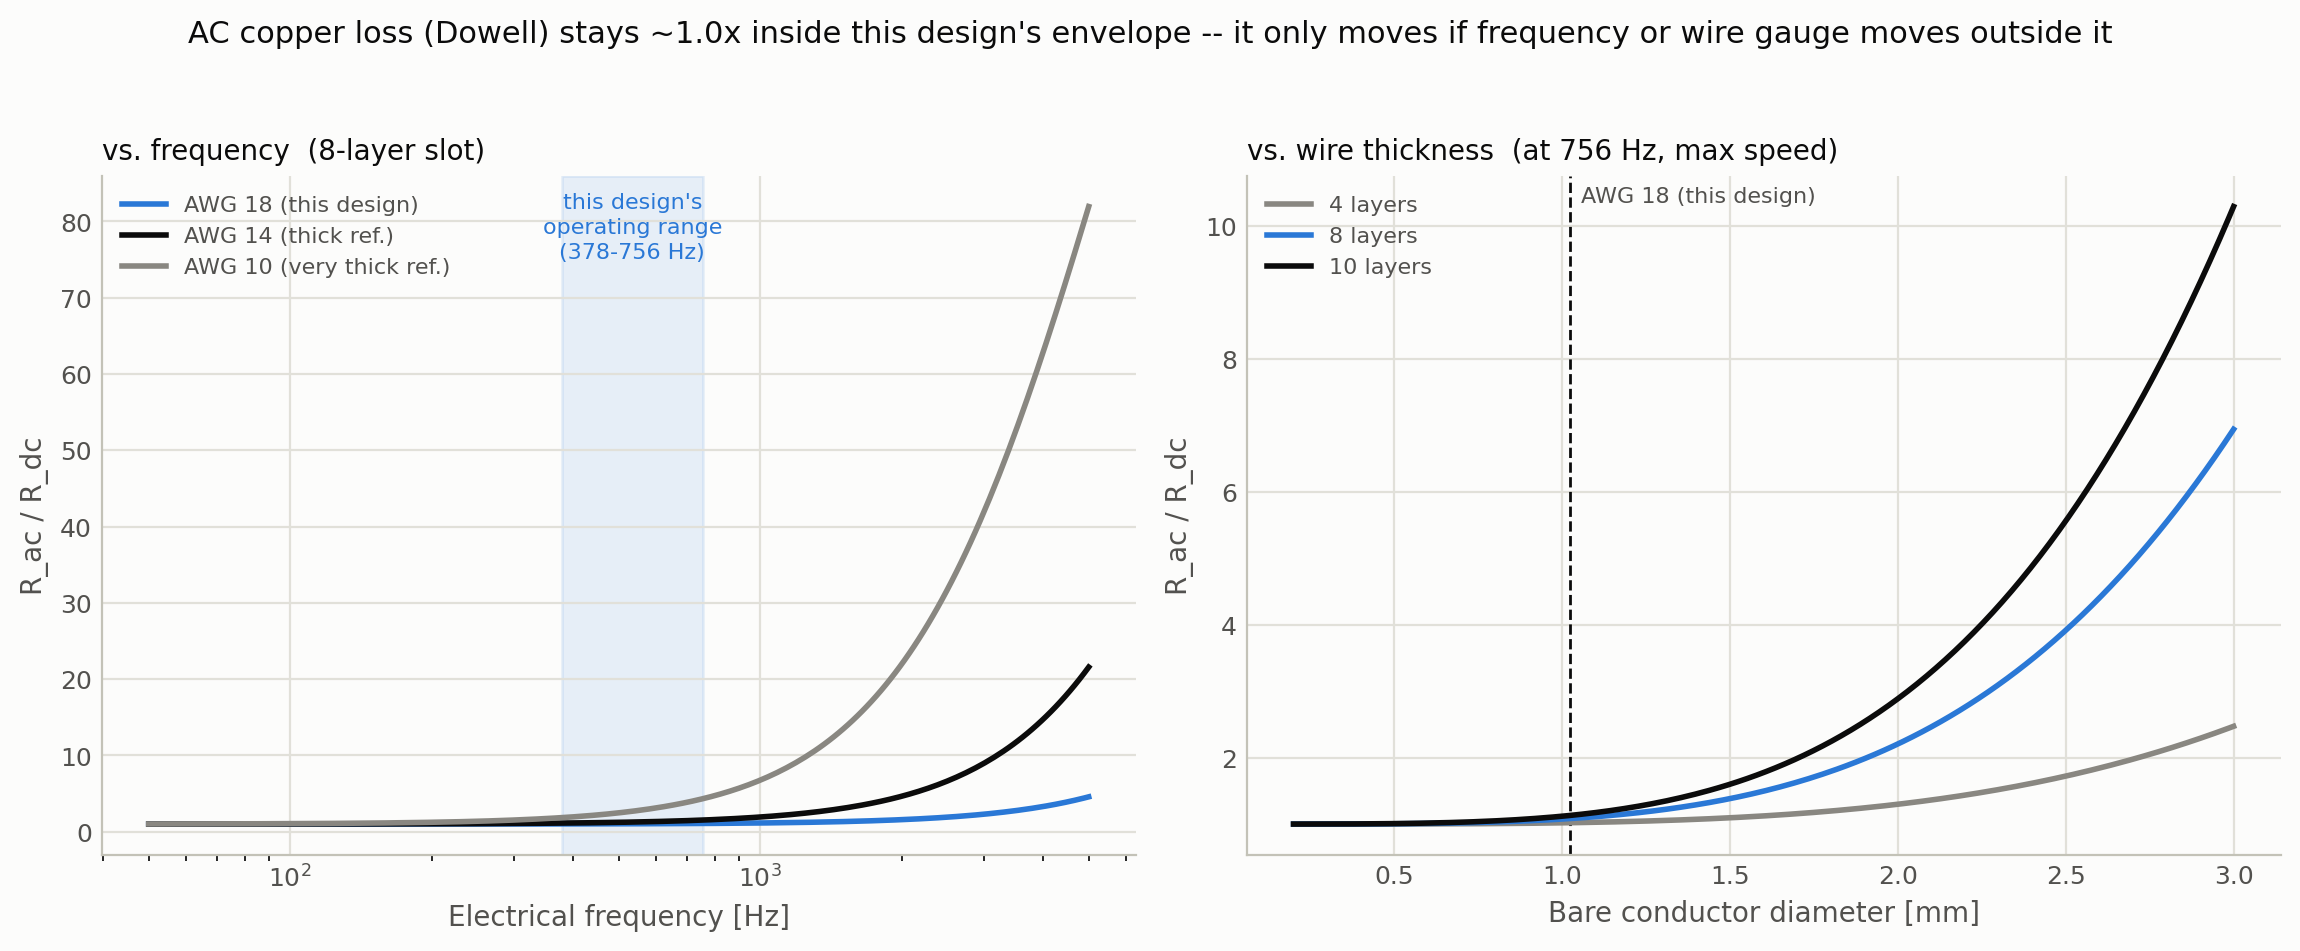
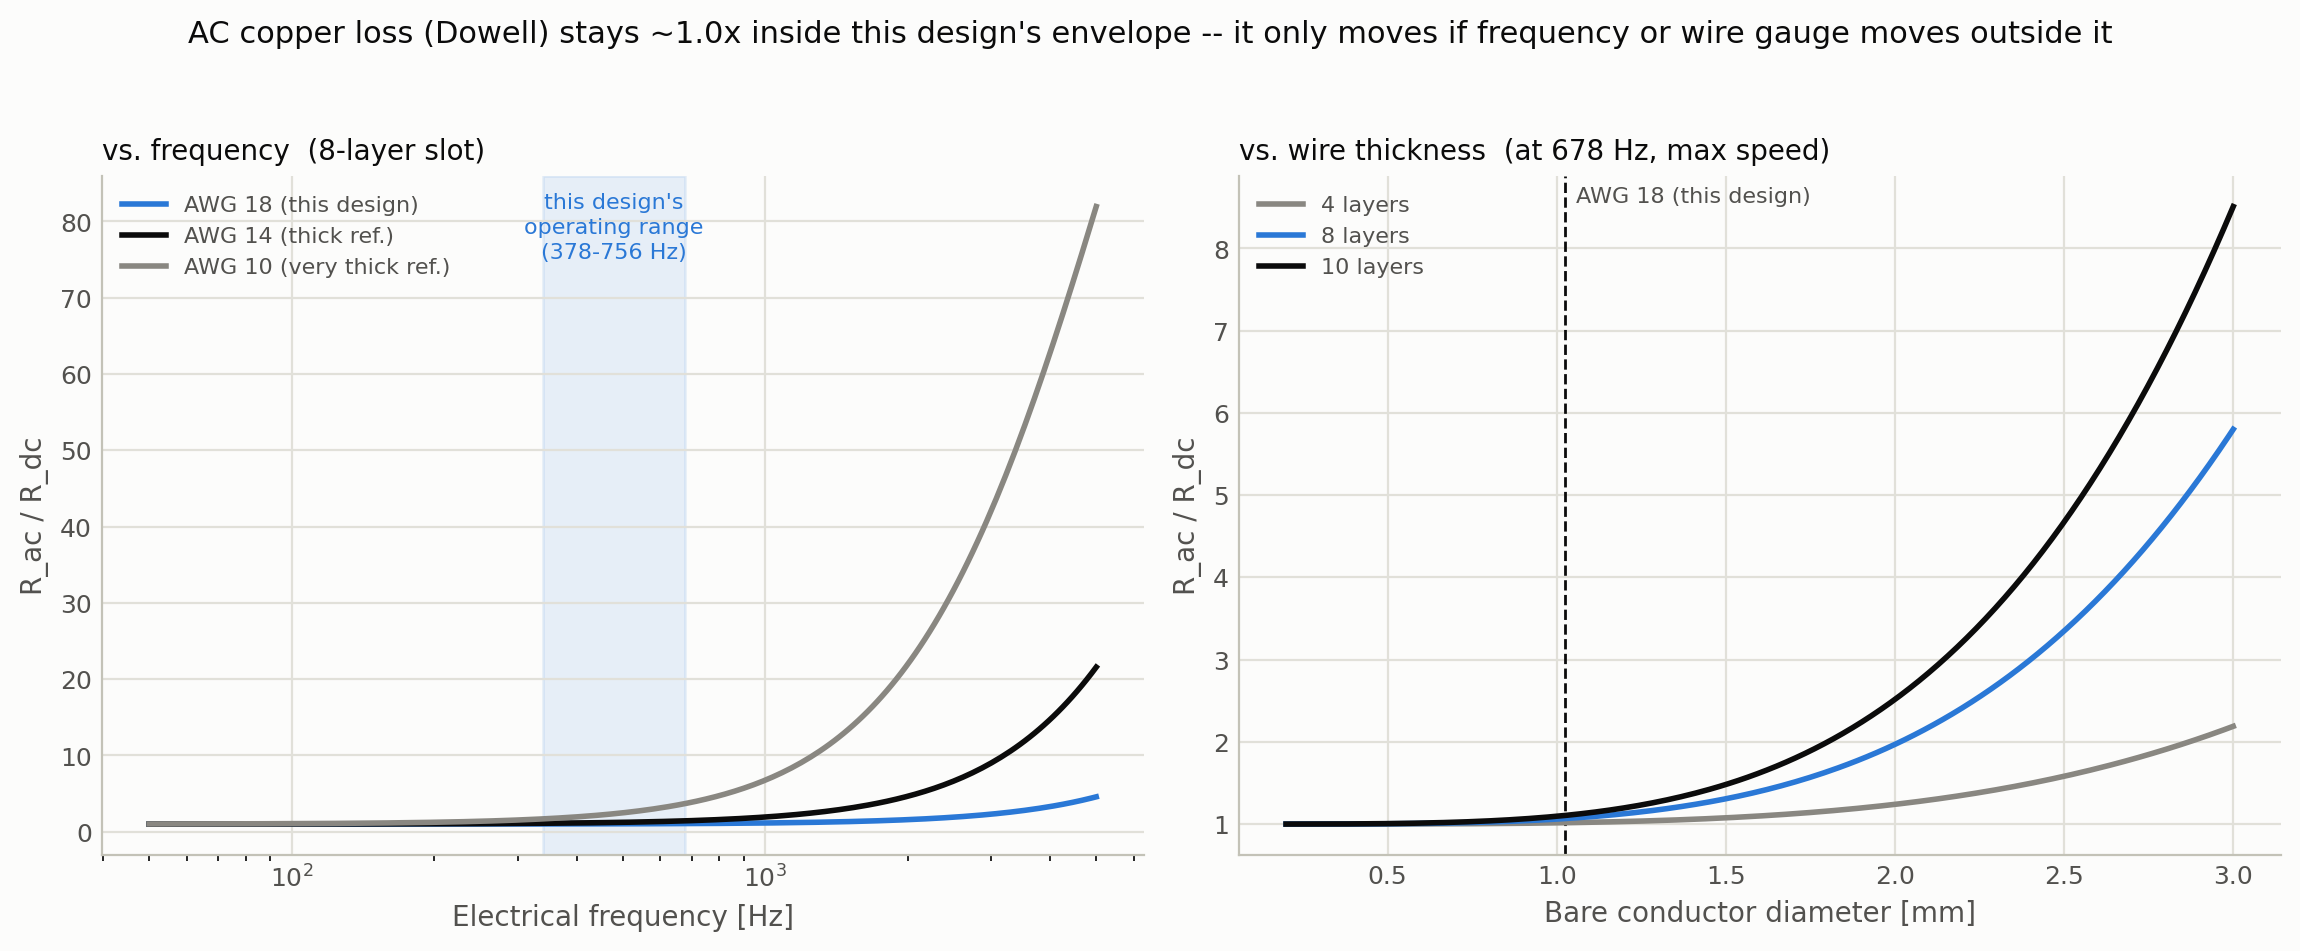
data tables

diff --git a/py_scripts/report_tables.py b/py_scripts/report_tables.py
@@ -1,0 +1,125 @@
+"""
+report_tables.py -- The two blog-post summary tables (torque sweep, speed
+sweep), both built from ONE function over ONE MotorParams instance.
+
+Postmortem (see md files/(C) Report Draft.md Section 3.1 note): the old
+Table 1 was hand-copied from a run made before config.py's MOTOR was
+updated (Kt 0.031->0.034, Kv 270->242, core_mass 0.08->0.125 kg, R_th
+1.5->0.29 K/W). Table 2 was generated afterward, against the updated
+config.py. Nobody re-ran Table 1, so the two tables silently described two
+different motors. This script makes that impossible: every row in both
+tables comes from operating_point(), which always reads MOTOR from
+config.py -- there is no second parameter set to drift out of sync.
+
+Run:  python report_tables.py
+"""
+from config import MOTOR, T_AMB_C
+from losses import (copper_loss, iron_loss, mech_loss, output_power,
+                    resistance_ratio, representative_rpm, elec_freq)
+from thermal import steady_winding_temp
+
+# The shared operating point the two sweeps must agree on: Table 1 holds
+# this speed fixed while varying torque; Table 2 holds this torque fixed
+# while varying speed. representative_rpm() (half no-load speed) is the
+# same speed the loss_breakdown figure and report Section 3 already use.
+SHARED_RPM = representative_rpm(MOTOR)
+SHARED_TORQUE_NM = 0.3
+
+
+"""Every reported quantity at one (T_nm, rpm) point, from a single
+self-consistent thermal solve. Both tables call only this function -- no
+operating point is ever computed a second, independent way."""
+def operating_point(T_nm, rpm, m=MOTOR, T_amb_c=T_AMB_C):
+    T_w_c, _ = steady_winding_temp(T_nm, rpm, m, T_amb_c)
+    P_cu = copper_loss(T_nm, m, T_w_c)
+    P_fe = iron_loss(rpm, m)
+    P_mech = mech_loss(rpm, m)
+    P_out = output_power(T_nm, rpm)
+    P_loss = P_cu + P_fe + P_mech
+    eff_pct = 100.0 * P_out / (P_out + P_loss) if (P_out + P_loss) > 0 else 0.0
+    return {
+        'T_nm': T_nm, 'rpm': rpm,
+        'P_cu': P_cu, 'P_fe': P_fe, 'P_mech': P_mech,
+        'efficiency_pct': eff_pct,
+        'T_winding_c': T_w_c,
+        'R_multiplier': resistance_ratio(T_w_c, m),
+    }
+
+
+def build_table1_torque_sweep(torques_nm, rpm=SHARED_RPM):
+    return [operating_point(T, rpm) for T in torques_nm]
+
+
+def build_table2_speed_sweep(rpms, T_nm=SHARED_TORQUE_NM):
+    return [operating_point(T_nm, rpm) for rpm in rpms]
+
+
+"""Table 1 must agree with Table 2 wherever their operating points overlap
+(Table 1's fixed speed, at Table 2's fixed torque). Since both come from
+the same operating_point() call this is not a tolerance check on two
+independent models -- it's a regression guard against ever going back to
+two hand-maintained tables."""
+def self_check(table1_rows, table2_rows, tol_pct=1.0):
+    row1 = next(r for r in table1_rows if abs(r['T_nm'] - SHARED_TORQUE_NM) < 1e-9)
+    row2 = next(r for r in table2_rows if abs(r['rpm'] - SHARED_RPM) < 1e-6)
+    diff_pct = 100.0 * abs(row1['P_cu'] - row2['P_cu']) / row2['P_cu']
+    if diff_pct >= tol_pct:
+        raise AssertionError(
+            f"Table 1 and Table 2 diverge at the shared operating point "
+            f"({SHARED_TORQUE_NM} N*m, {SHARED_RPM:.0f} rpm): "
+            f"P_cu = {row1['P_cu']:.3f} W (Table 1) vs {row2['P_cu']:.3f} W "
+            f"(Table 2), {diff_pct:.2f}% apart (tolerance {tol_pct}%).")
+    print(f"self-check OK: at ({SHARED_TORQUE_NM} N*m, {SHARED_RPM:.0f} rpm) "
+          f"the two tables agree to {diff_pct:.4f}% "
+          f"(P_cu = {row1['P_cu']:.3f} W both).")
+
+
+def render_table1(rows, m=MOTOR):
+    f_hz = elec_freq(SHARED_RPM, m.pole_pairs)
+    lines = [
+        f"**Table 1 — copper loss vs. torque, at {SHARED_RPM:.0f} rpm "
+        f"({f_hz:.0f} Hz electrical, half no-load speed)**",
+        "",
+        "| Torque [N·m] | Speed [rpm] | P_cu [W] | P_fe [W] | P_mech [W] "
+        "| Efficiency | T_winding [°C] | R(T)/R_25°C |",
+        "|---:|---:|---:|---:|---:|---:|---:|---:|",
+    ]
+    for r in rows:
+        lines.append(
+            f"| {r['T_nm']:.1f} | {r['rpm']:.0f} | {r['P_cu']:.2f} "
+            f"| {r['P_fe']:.2f} | {r['P_mech']:.2f} | {r['efficiency_pct']:.1f}% "
+            f"| {r['T_winding_c']:.0f} | {r['R_multiplier']:.3f}x |")
+    return "\n".join(lines)
+
+
+def render_table2(rows, m=MOTOR):
+    lines = [
+        f"**Table 2 — copper loss vs. speed, at {SHARED_TORQUE_NM} N·m**",
+        "",
+        "| Speed [rpm] | f_elec [Hz] | Torque [N·m] | P_cu [W] | P_fe [W] "
+        "| Efficiency | T_winding [°C] | R(T)/R_25°C |",
+        "|---:|---:|---:|---:|---:|---:|---:|---:|",
+    ]
+    for r in rows:
+        f_hz = elec_freq(r['rpm'], m.pole_pairs)
+        lines.append(
+            f"| {r['rpm']:.0f} | {f_hz:.0f} | {r['T_nm']:.1f} "
+            f"| {r['P_cu']:.2f} | {r['P_fe']:.2f} | {r['efficiency_pct']:.1f}% "
+            f"| {r['T_winding_c']:.0f} | {r['R_multiplier']:.3f}x |")
+    return "\n".join(lines)
+
+
+if __name__ == '__main__':
+    torques_nm = [0.1, 0.2, 0.3, 0.4, 0.6, 0.8]
+    max_rpm = MOTOR.Kv_rpm_per_v * MOTOR.bus_voltage_v
+    speeds_rpm = sorted({200, 1000, 2000, SHARED_RPM, 4000, max_rpm})
+
+    table1_rows = build_table1_torque_sweep(torques_nm)
+    table2_rows = build_table2_speed_sweep(speeds_rpm)
+
+    self_check(table1_rows, table2_rows)
+
+    print()
+    print(render_table1(table1_rows))
+    print()
+    print(render_table2(table2_rows))

diff --git a/py_scripts/ac_copper.py b/py_scripts/ac_copper.py
@@ -14,7 +14,7 @@ import matplotlib.pyplot as plt
 
 from config import MOTOR, ALPHA_CU_PER_C
 from plot_losses import SURFACE, INK, INK_2, MUTED, C_COPPER, style
-from losses import elec_freq, copper_loss
+from losses import elec_freq, copper_loss, representative_rpm
 
 RHO_20_OHM_M = 1.724e-8    # copper resistivity @ 20 C
 MU0 = 4e-7 * np.pi
@@ -106,20 +106,23 @@ def print_skin_depth_table(m):
     print("=" * 66)
     print("SKIN DEPTH vs SPEED  (winding at 100 C)")
     print("=" * 66)
+    max_rpm = m.Kv_rpm_per_v * m.bus_voltage_v
     print(f"{'rpm':>8} {'f_elec[Hz]':>12} {'delta[mm]':>12}")
-    for rpm in (1000, 3240, 5000, 6480):
+    for rpm in (1000, representative_rpm(m), 5000, max_rpm):
         f_hz = elec_freq(rpm, m.pole_pairs)
         print(f"{rpm:8.0f} {f_hz:12.1f} {skin_depth(f_hz, 100.0)*1e3:12.2f}")
 
 
 def print_dowell_table(m):
+    max_rpm = m.Kv_rpm_per_v * m.bus_voltage_v
+    f_max_hz = elec_freq(max_rpm, m.pole_pairs)
     print("\n" + "=" * 66)
-    print("DOWELL R_ac/R_dc @ 756 Hz (max speed), 100 C")
+    print(f"DOWELL R_ac/R_dc @ {f_max_hz:.0f} Hz (max speed), 100 C")
     print("=" * 66)
     print(f"{'AWG':>5} {'d[mm]':>8} " + "".join(f"{n:>8}L" for n in (2, 4, 6, 8, 10)))
     for g, d_mm in ((18, m.wire_diameter_mm), (20, 0.812), (22, 0.644),
                     (24, 0.511), (26, 0.405)):
-        row = "".join(f"{dowell_ratio(d_mm, 756, n):9.3f}" for n in (2, 4, 6, 8, 10))
+        row = "".join(f"{dowell_ratio(d_mm, f_max_hz, n):9.3f}" for n in (2, 4, 6, 8, 10))
         note = "  <- this design (R_ph-reconciled)" if g == 18 else ""
         print(f"{g:5d} {d_mm:8.3f} " + row + note)
 
@@ -190,7 +193,9 @@ and vs. wire thickness (several layer counts, this design's worst-case
 frequency) -- to show R_ac/R_dc stays ~1.0x inside this design's envelope
 and only moves once frequency or wire gauge moves outside it."""
 def save_ac_copper_sweep_figure(m):
-    F_OP_LO_HZ, F_OP_HI_HZ = 378.0, 756.0    # this design's electrical frequency range
+    # this design's electrical frequency range: representative (half no-load) speed to max speed
+    F_OP_LO_HZ = elec_freq(representative_rpm(m), m.pole_pairs)
+    F_OP_HI_HZ = elec_freq(m.Kv_rpm_per_v * m.bus_voltage_v, m.pole_pairs)
 
     fig, (axL, axR) = plt.subplots(1, 2, figsize=(11.6, 4.6))
     fig.patch.set_facecolor(SURFACE)

diff --git a/py_scripts/losses.py b/py_scripts/losses.py
@@ -15,12 +15,19 @@ def phase_current(T_nm, Kt_nm_per_a):
     return T_nm / Kt_nm_per_a
 
 
+"""R_hot / R_ph_ohm at temp_c: 1 + alpha_cu * (temp_c - R_ref_temp_c).
+Separated out so callers (report tables) can show the multiplier actually
+applied, not just its downstream effect on P_cu."""
+def resistance_ratio(temp_c, m):
+    return 1.0 + ALPHA_CU_PER_C * (temp_c - m.R_ref_temp_c)
+
+
 """3-phase copper (Joule) loss, with copper resistance temperature rise.
 P_cu = 3 * I_ph^2 * R_ph(temp_c)
-R_ph(temp_c) = R_ph_ohm * (1 + alpha_cu * (temp_c - R_ref_temp_c))"""
+R_ph(temp_c) = R_ph_ohm * resistance_ratio(temp_c, m)"""
 def copper_loss(T_nm, m, temp_c):
     I_ph_a = phase_current(T_nm, m.Kt_nm_per_a)
-    R_hot_ohm = m.R_ph_ohm * (1.0 + ALPHA_CU_PER_C * (temp_c - m.R_ref_temp_c))
+    R_hot_ohm = m.R_ph_ohm * resistance_ratio(temp_c, m)
     return 3.0 * I_ph_a ** 2 * R_hot_ohm
 
 
